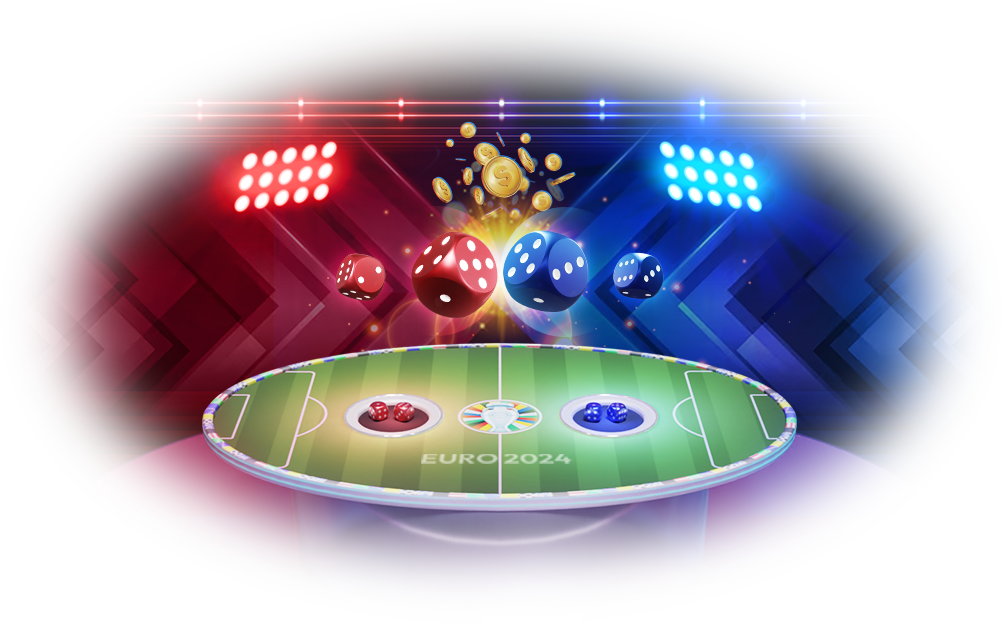
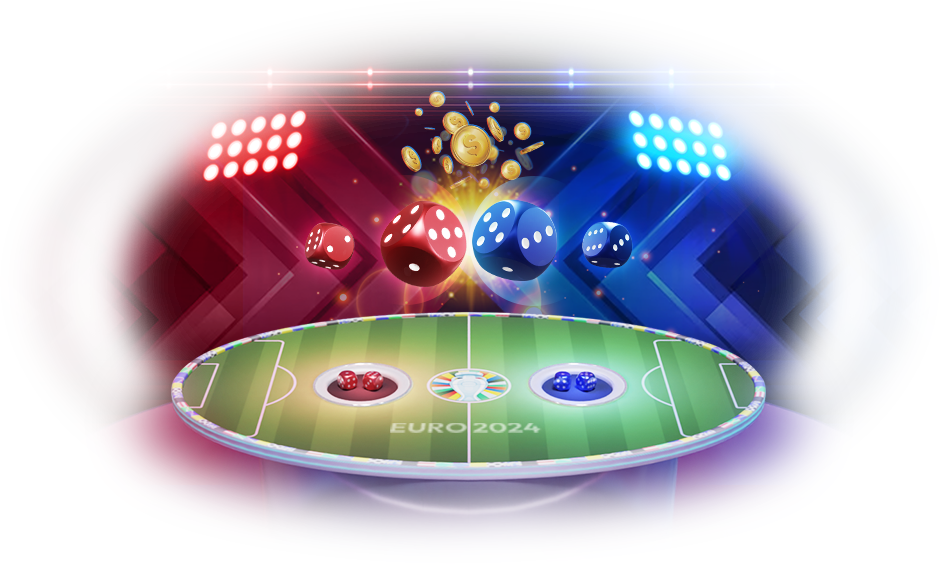
chore: update splash

diff --git a/src/splash-resources/splash-style.css b/src/splash-resources/splash-style.css
@@ -1,5 +1,5 @@
 .splash-container .bg_no_translate {
-    background-image: url("./game_background.png?v=6");
+    background-image: url("./game_background.png?v=7");
 }
 
 .splash-container .splash_game_name_vi {
@@ -27,5 +27,5 @@
 }
 
 .splash_bg_game {
-    background-size: auto 79.5vh !important;
+    background-size: auto 71.8vh !important;
  }
